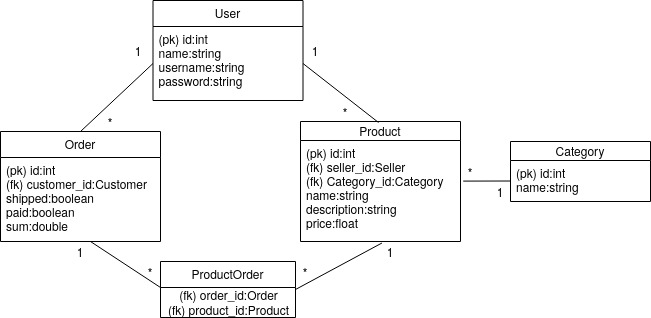
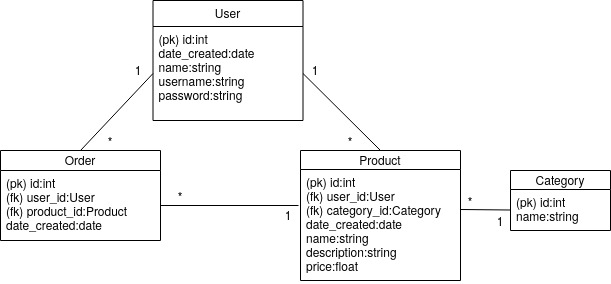
pieniä muokkauksia, tietokantakaavion päivitys

diff --git a/application/auth/models.py b/application/auth/models.py
@@ -38,12 +38,3 @@ class User(Base):
         res = db.engine.execute(stmt).fetchone()
         item_count = res[0]
         return item_count
-
-    @staticmethod
-    def count_orders(users_id):
-        stmt = text("SELECT COUNT(\"order\".id) FROM \"Order\"" 
-        " JOIN Account ON account_id = account.id WHERE" 
-        " Account_id = :x").params(x = users_id)
-        res = db.engine.execute(stmt).fetchone()
-        order_count = res[0]
-        return order_count

diff --git a/application/products/views.py b/application/products/views.py
@@ -16,7 +16,7 @@ def products_index():
 
     # get three most ordered
     stmt = text(
-        'Select product.name AS thename FROM "order" '
+        'Select product.name FROM "order" '
         "JOIN Product on Product.id = product_id "
         "JOIN Account ON account.id = product.account_id "
         "GROUP BY product.id "

diff --git a/application/orders/models.py b/application/orders/models.py
@@ -2,8 +2,6 @@ from application import db
 from application.models import Base
 
 class Order(Base):
-    shipped = db.Column(db.Boolean, nullable=False)
-
     account_id = db.Column(db.Integer, db.ForeignKey('account.id'), nullable=False)
     product_id = db.Column(db.Integer, db.ForeignKey('product.id'), nullable = False)
 
